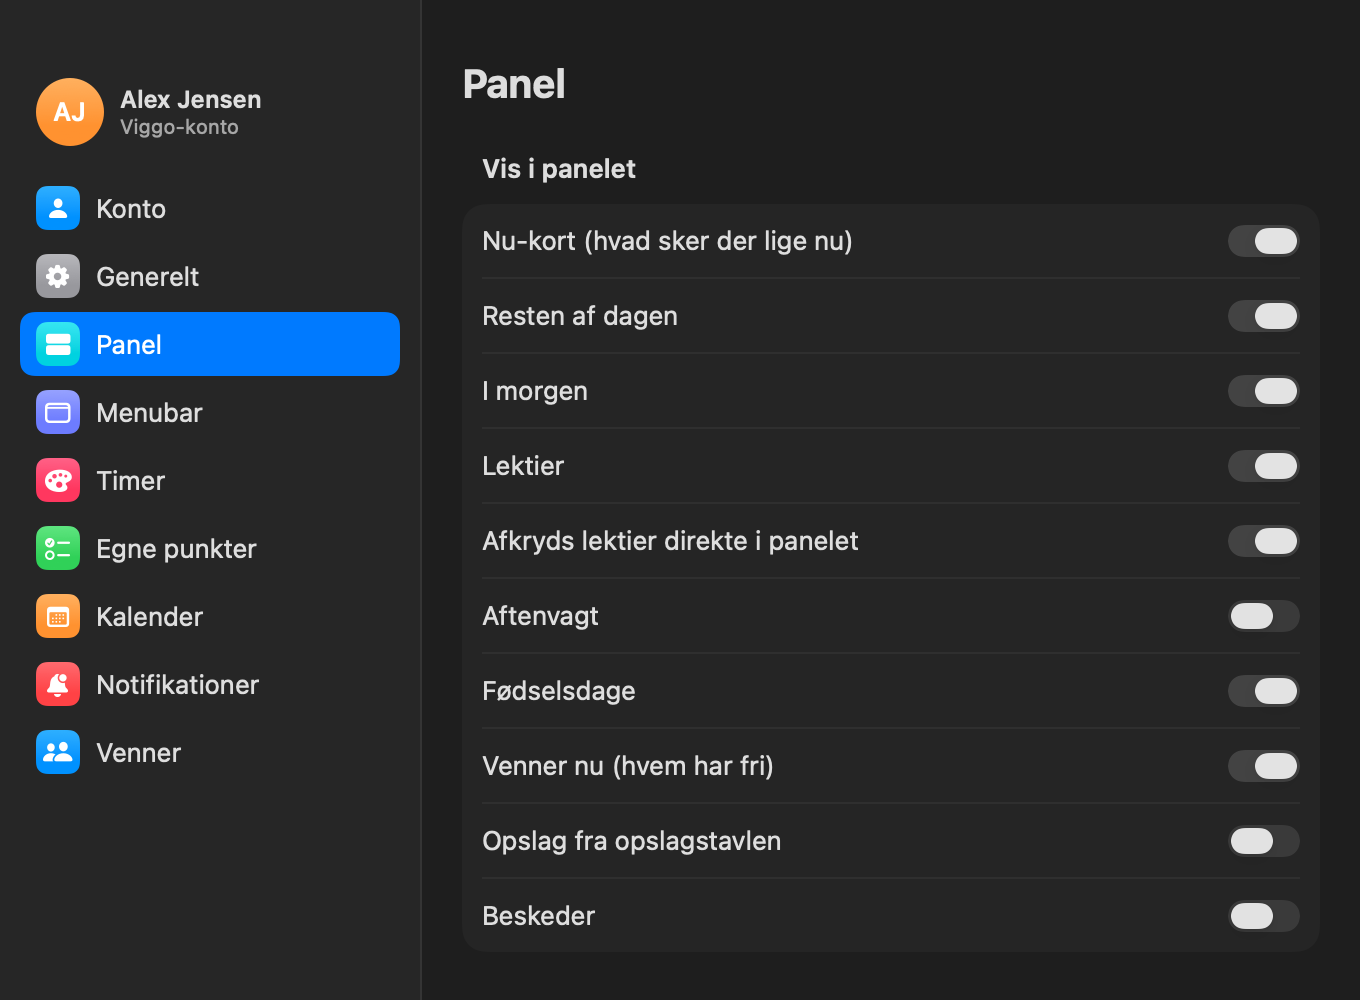
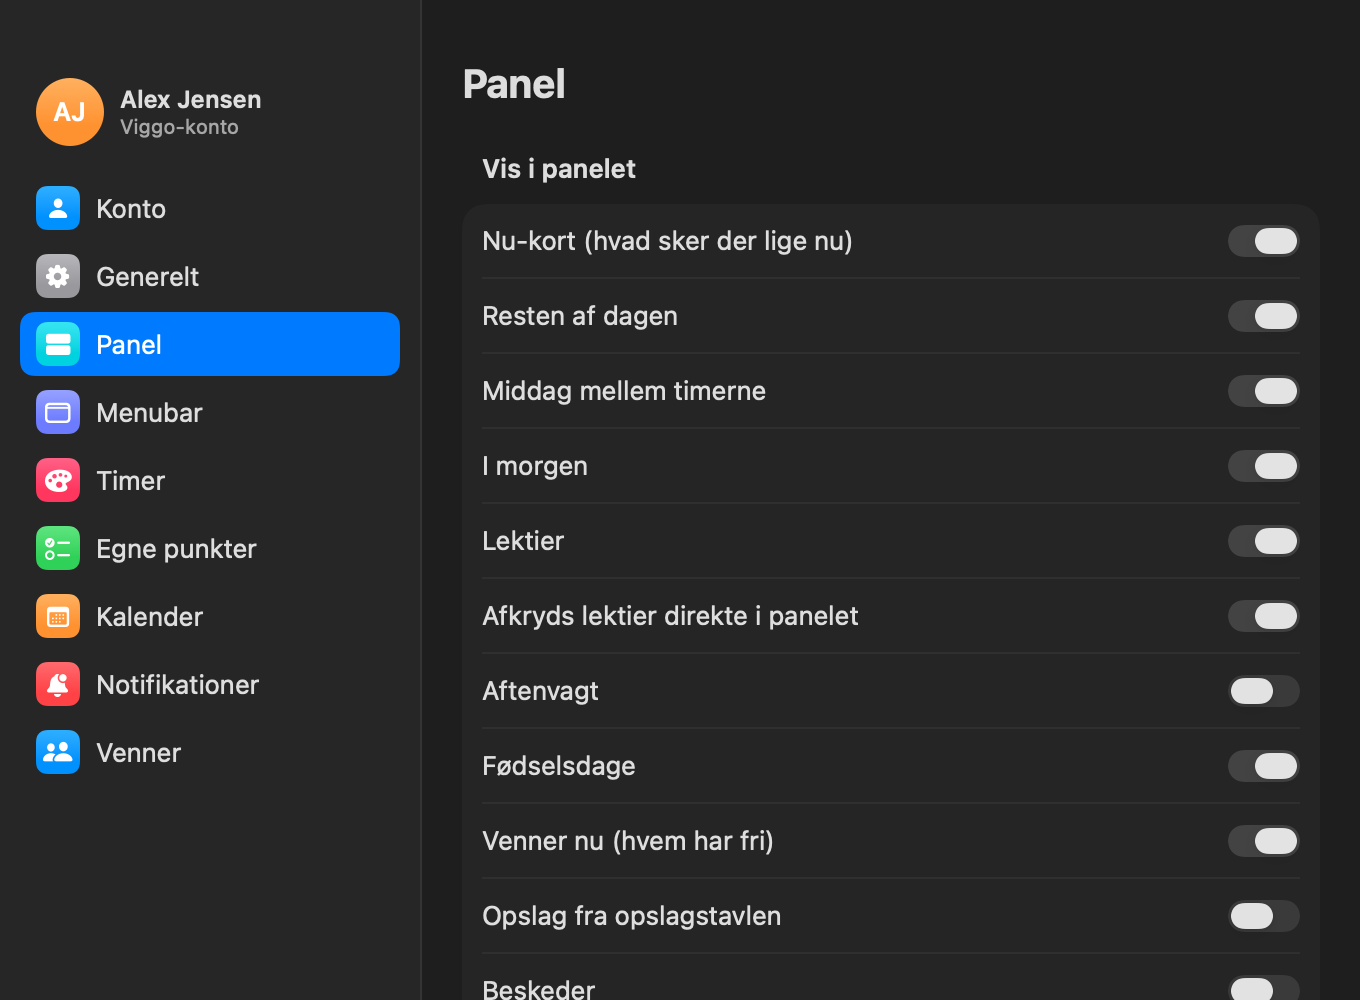
Middag og egne punkter i uge-overblikket

diff --git a/Sources/Features.swift b/Sources/Features.swift
@@ -169,8 +169,11 @@ struct WeekView: View {
     private var range: ClosedRange<Int> { person == nil ? -Config.weeksBack...Config.weeksAhead : 0...1 }
 
     private func dayItems(_ d: Date) -> [ViggoEvent] {
-        events.filter { ($0.kind == .lesson || $0.kind == .event) && (person != nil || state.visible($0))
-            && DateUtil.cal.isDate($0.start, inSameDayAs: d) }.sorted { $0.start < $1.start }
+        let school = events.filter { ($0.kind == .lesson || $0.kind == .event) && (person != nil || state.visible($0))
+            && DateUtil.cal.isDate($0.start, inSameDayAs: d) }
+        // Lunch from Viggo, like on Viggo's own schedule, and your own items (only in your own week).
+        let extra = state.lunch(d, from: person == nil ? nil : events) + (person == nil ? state.customEvents(on: d) : [])
+        return (school + extra).sorted { $0.start < $1.start }
     }
 
     var body: some View {
@@ -350,7 +353,7 @@ struct GridBlock: View {
     let height: CGFloat
 
     var body: some View {
-        let tint = e.customColor ?? (e.kind == .lesson ? Color.accentColor : .purple)
+        let tint = e.customColor ?? (e.kind == .lesson ? Color.accentColor : e.kind == .custom ? .green : e.kind == .routine ? .gray : .purple)
         let roomy = height >= 44
         VStack(alignment: .leading, spacing: 1) {
             Text(e.shortTitle).font(.system(size: 11, weight: .semibold))
@@ -381,7 +384,7 @@ struct GridBlock: View {
             }
         }
         .contentShape(Rectangle())
-        .onTapGesture { AppState.shared.openLesson(e) }
+        .onTapGesture { if e.kind != .custom { AppState.shared.openLesson(e) } }
     }
 }
 

diff --git a/Sources/DocRenderer.swift b/Sources/DocRenderer.swift
@@ -68,7 +68,7 @@ enum DocRenderer {
     private static func loadDemo(_ s: AppState) {
         s.profile = Profile(id: 1, name: "Alex Jensen", image: nil)
         Prefs.shared.customItems = [
-            CustomItem(title: "Frokost", start: 12 * 60, end: 12 * 60 + 30),
+            CustomItem(title: "Træning", start: 16 * 60 + 30, end: 17 * 60 + 30, days: [2, 3, 4]),
             CustomItem(title: "Pause", start: 14 * 60 + 15, end: 14 * 60 + 30, days: [1, 2, 3, 4, 5, 6, 7]),
         ]
         s.events = [
@@ -81,6 +81,11 @@ enum DocRenderer {
                        links: [URL(string: "https://www.youtube.com/watch?v=demo")!, URL(string: "https://drive.google.com/file/d/demo/view")!]),
             ev(5, "Gymnastik", 14, 30, 16, 0, room: "Store hal"),
             ev(10, "Aftensmad", 18, 0, 18, 30, room: "Spisesalen", kind: .routine),
+            ev(80, "Middag", 12, 10, 13, 0, room: "Spisesalen", kind: .routine, day: mon(0)),
+            ev(81, "Middag", 12, 10, 13, 0, room: "Spisesalen", kind: .routine, day: mon(1)),
+            ev(82, "Middag", 12, 10, 13, 0, room: "Spisesalen", kind: .routine, day: mon(2)),
+            ev(83, "Middag", 12, 10, 13, 0, room: "Spisesalen", kind: .routine, day: mon(3)),
+            ev(84, "Middag", 12, 10, 13, 0, room: "Spisesalen", kind: .routine, day: mon(4)),
             ev(11, "Stilletime og oprydning på værelset", 18, 30, 19, 30, kind: .routine),
             ev(12, "Fællessamling og aflevering af telefon", 19, 30, 19, 50, kind: .routine),
             ev(13, "Alle på eget område", 21, 45, 22, 0, kind: .routine),

diff --git a/CHANGELOG.md b/CHANGELOG.md
@@ -3,6 +3,7 @@
 ## 1.5.0 (2026-11-09)
 
 - **Middag mellem timerne**: middagen fra dit Viggo-skema står nu i panelet mellem timerne og i menubaren, ligesom på Viggo. Kan slås fra under Indstillinger › Panel.
+- **Uge-overblikket** viser også middag (grå) og dine egne punkter (grønne).
 - **Egne punkter**: tilføj frokost, træning, lektier og andet under Indstillinger › Egne punkter, med tidspunkt og hvilke dage. De står i panelet med en grøn streg og i menubaren, fx "Frokost 12:00".
 - **Små animationer**: lektier hopper når du krydser af, minutterne ruller på Nu-kortet, ringen glider hen til den ven du vælger, og dagen tones ind. Synk-pilen drejer mens den henter, og knapperne giver lidt efter når du trykker.
 - I indstillingerne glider markeringen i siden med, og siderne tones ind.
